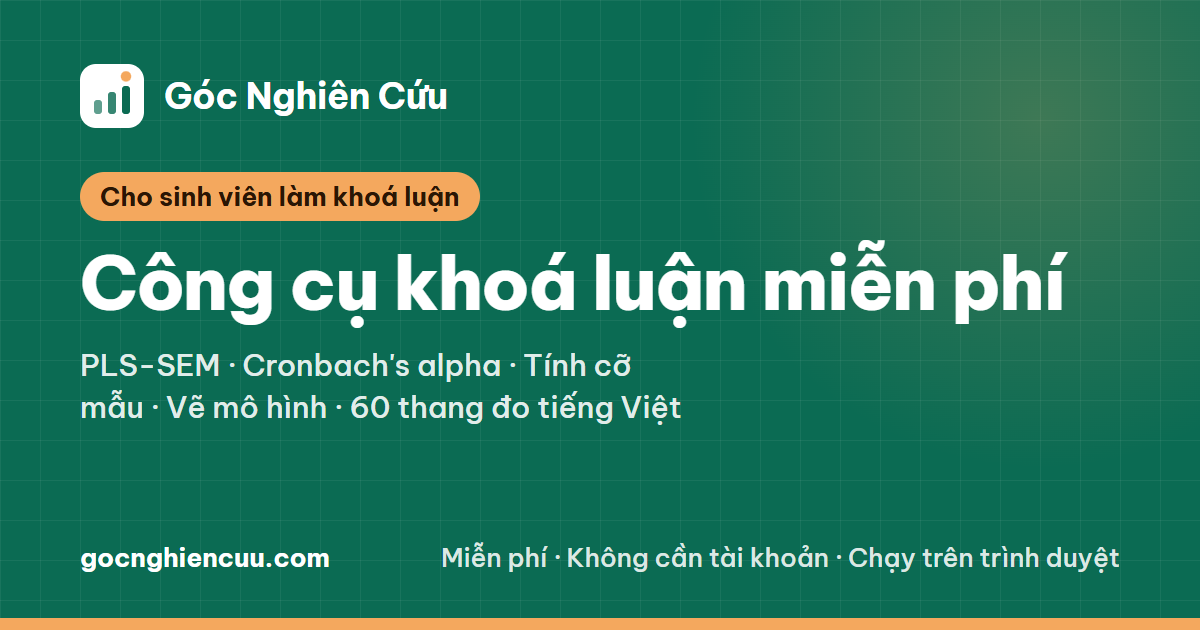
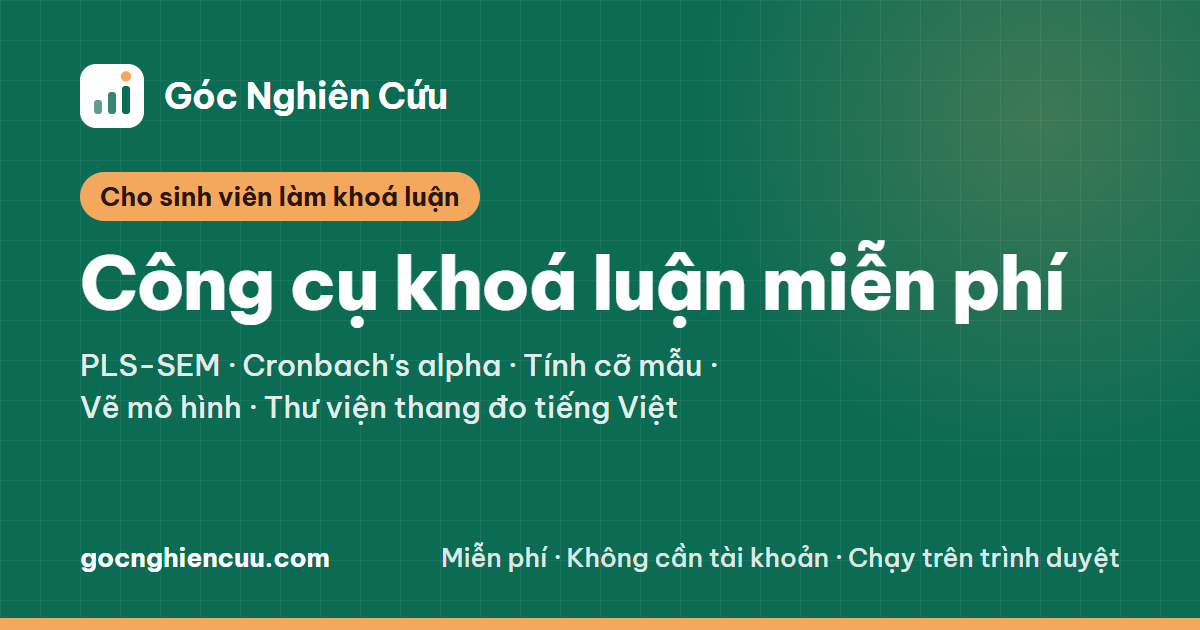
Feedback link on tool pages, count-free scale share cards
'Bạn thấy công cụ này có ích không? Gửi góp ý' under the share bar opens a
Vietnamese GitHub issue template with the page prefilled (the about page already
sends feedback to GitHub issues); clicks send feedback_click. Share cards no longer
print the scale count, which changes as scales are added.

Changed region(s): [[0.0617, 0.5429, 0.5858, 0.6937]]

diff --git a/src/utils/ogCards.ts b/src/utils/ogCards.ts
@@ -5,7 +5,7 @@
 export const OG_CARDS: Record<string, { file: string; alt: string }> = {
   "/": {
     file: "og/home.png",
-    alt: "Góc Nghiên Cứu: công cụ khoá luận miễn phí, PLS-SEM, Cronbach's alpha, tính cỡ mẫu, vẽ mô hình, 60 thang đo tiếng Việt",
+    alt: "Góc Nghiên Cứu: công cụ khoá luận miễn phí, PLS-SEM, Cronbach's alpha, tính cỡ mẫu, vẽ mô hình, thư viện thang đo tiếng Việt",
   },
   "/cong-cu/": {
     file: "og/cong-cu.png",
@@ -29,7 +29,7 @@ export const OG_CARDS: Record<string, { file: string; alt: string }> = {
   },
   "/thang-do/": {
     file: "og/thang-do.png",
-    alt: "60 thang đo tiếng Việt có nguồn gốc: bản dịch, bản gốc tiếng Anh, tác giả, năm, trích dẫn APA",
+    alt: "Thang đo tiếng Việt có nguồn gốc, để trích: bản dịch, bản gốc tiếng Anh, tác giả, năm, trích dẫn APA",
   },
 };
 

diff --git a/src/scripts/track.ts b/src/scripts/track.ts
@@ -74,6 +74,10 @@ document.addEventListener("click", event => {
   }
 
   const tool = toolSlug();
+  if (tool && target.closest("a[data-feedback]")) {
+    send("feedback_click", { tool });
+    return;
+  }
   if (!tool || !inTool(target)) return;
   const button = target.closest<HTMLButtonElement>("button");
   if (!button) {

diff --git a/scripts/make-og.py b/scripts/make-og.py
@@ -22,7 +22,7 @@ CARDS = {
     "home": (
         "Cho sinh viên làm khoá luận",
         "Công cụ khoá luận miễn phí",
-        "PLS-SEM · Cronbach's alpha · Tính cỡ mẫu · Vẽ mô hình · 60 thang đo tiếng Việt",
+        "PLS-SEM · Cronbach's alpha · Tính cỡ mẫu · Vẽ mô hình · Thư viện thang đo tiếng Việt",
     ),
     "cong-cu": (
         "12 công cụ trên trình duyệt",
@@ -51,7 +51,7 @@ CARDS = {
     ),
     "thang-do": (
         "Thư viện thang đo",
-        "60 thang đo tiếng Việt có nguồn gốc",
+        "Thang đo tiếng Việt có nguồn gốc, để trích",
         "Bản dịch, bản gốc tiếng Anh, tác giả, năm, độ tin cậy và trích dẫn APA.",
     ),
 }
@@ -95,7 +95,7 @@ def main() -> None:
                 PAGE.replace("LOGO", LOGO)
                 .replace("EYEBROW", html.escape(eyebrow))
                 .replace("TITLE", html.escape(title))
-                .replace("SUB", html.escape(sub))
+                .replace("SUB", html.escape(sub).replace(" · ", " · "))
             )
             page.set_content(doc, wait_until="networkidle")
             page.evaluate("document.fonts.ready")

diff --git a/docs/launch/ra-mat.md b/docs/launch/ra-mat.md
@@ -360,6 +360,7 @@ Threads đã được lên lịch tự động lúc 20:30 mỗi ngày (riêng 05
 | `tool_run` | `tool` (slug trang, vd `pls-sem`, `cronbach-alpha`) | Công cụ có nút chạy (id kết thúc `-run`: PLS-SEM, Cronbach, phân tích dữ liệu, làm sạch, bác sĩ kết quả, trung gian–điều tiết, APA, chỉ số tài chính): mỗi lần bấm nút. Công cụ tự tính khi nhập (tính cỡ mẫu, vẽ mô hình, bộ khảo sát, chọn phương pháp): một lần mỗi lượt xem trang, ở thao tác đầu tiên. Đây là lượt bấm chạy, kể cả khi dữ liệu lỗi. | `src/scripts/track.ts` |
 | `export` | `tool`, `format` (`docx`, `csv`, `sps`, `png`, `svg`, `ris`, `bibtex`, `google_form`, `gdf`, `link`, `copy`) | Bấm nút tải hoặc sao chép kết quả trong công cụ (theo id nút trong `src/tools/*.html`) | `src/scripts/track.ts` |
 | `share_click` | `channel` (`facebook`, `messenger`, `zalo`, `copy`, `webshare`) | Bấm nút trong thanh "Gửi cho bạn cùng nhóm" ở trang công cụ và bài viết | `src/components/ShareBar.astro` |
+| `feedback_click` | `tool` | Bấm "Gửi góp ý" dưới thanh chia sẻ ở trang công cụ (mở issue GitHub theo mẫu `.github/ISSUE_TEMPLATE/gop-y-cong-cu.md`, điền sẵn link trang) | `src/scripts/track.ts` |
 | `affiliate_click` | `placement` (`data-placement` của link, nếu không có thì `utm_content`, nếu không có thì đường dẫn trang), `link_domain` | Bấm bất kỳ link `rel="sponsored"` nào (link giới thiệu Genius Data) | `src/scripts/track.ts` |
 
 Link chia sẻ từ thanh chia sẻ mang `utm_source=share&utm_medium=<kênh>`, nên lượt vào từ link bạn bè gửi nhau hiện trong GA4 ở Nguồn/Phương tiện `share / zalo`, `share / facebook`…

diff --git a/.github/ISSUE_TEMPLATE/gop-y-cong-cu.md b/.github/ISSUE_TEMPLATE/gop-y-cong-cu.md
@@ -1,0 +1,17 @@
+---
+name: "Góp ý công cụ"
+about: Công cụ có ích không, chỗ nào sai, khó hiểu hay còn thiếu
+title: "[Góp ý] "
+labels: feedback
+assignees: ""
+---
+
+**Trang:** (link trang công cụ, đã điền sẵn nếu bạn bấm từ trang)
+
+**Công cụ có ích với bạn không?** (có / một phần / không, vì sao)
+
+**Chỗ sai hoặc khó hiểu:** (bảng nào, số nào lệch so với SPSS/SmartPLS, bước nào không biết làm)
+
+**Bạn muốn có thêm gì?**
+
+Đừng dán dữ liệu khảo sát thật hay thông tin cá nhân của người trả lời vào đây: issue trên GitHub ai cũng đọc được.
